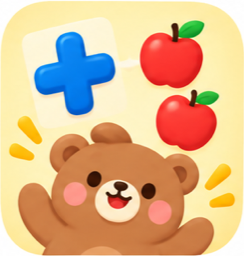
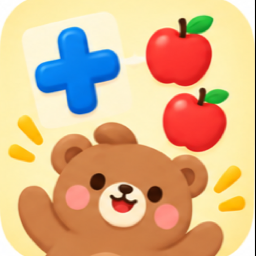
fix(ui): 활동 그림 열 개를 모두 같은 정사각형으로 맞춘다
원본 그림의 가로세로 비율이 제각각이었다 — 첫 줄 여섯 개는 세로로 길고
(238×331) 둘째 줄 셋은 정사각형에 가까웠다(280~315×318). 그대로 넣으니
카드마다 그림 크기가 달라 보였다.

각 그림에서 가운데 정사각형을 잘라 256×256 으로 맞췄다. 세로로 긴 그림은
위아래를 14% 씩 덜어내는데, 인물의 얼굴은 가운데에 있어 잘리지 않는다.

파일 크기가 다시 어긋나면 걸리도록 PNG 머리말을 직접 읽어 확인하는 테스트를 뒀다.

Claude-Session: https://claude.ai/code/session_014fMnw2XDCC8bcCaR6jEaRq

diff --git a/apps/web/src/components/ActivityIcon.test.tsx b/apps/web/src/components/ActivityIcon.test.tsx
@@ -1,6 +1,7 @@
+import { readFileSync } from 'node:fs';
 import { render, screen } from '@testing-library/react';
 import { describe, expect, it } from 'vitest';
-import { ACTIVITY_ICONS, ActivityIcon } from './ActivityIcon';
+import { ACTIVITY_ART, ACTIVITY_ICONS, ActivityIcon } from './ActivityIcon';
 
 /** 지금 앱에 있는 활동 전부. 하나라도 그림이 없으면 카드가 밋밋해진다. */
 /** 영숙님이 그려 준 그림을 쓰는 활동 — 이것들은 <svg> 가 아니라 <img> 로 그려진다. */
@@ -63,6 +64,17 @@ describe('ActivityIcon', () => {
       const { container, unmount } = render(<Icon />);
       expect(container.querySelector('svg')).toHaveAttribute('viewBox', '0 0 64 64');
       unmount();
+    }
+  });
+
+  it('모든 그림이 똑같은 정사각형이다', () => {
+    // 원본 그림들의 가로세로 비율이 제각각이라 카드마다 크기가 달라 보였다.
+    // 파일 자체를 같은 정사각형으로 맞춰 두고, 어긋나면 여기서 걸리게 한다.
+    for (const id of ART_IDS) {
+      const file = ACTIVITY_ART[id]!.replace(/^\//, '');
+      const png = readFileSync(`public/${file}`);
+      // PNG 는 IHDR 청크의 16번째 바이트부터 가로·세로를 4바이트씩 담는다.
+      expect([png.readUInt32BE(16), png.readUInt32BE(20)]).toEqual([256, 256]);
     }
   });
 

diff --git a/apps/web/src/components/ActivityIcon.tsx b/apps/web/src/components/ActivityIcon.tsx
@@ -221,8 +221,11 @@ function DefaultIcon() {
  * 카드의 제목은 앱이 글씨로 얹는다.
  *
  * 아래 SVG 는 그림이 아직 없는 활동을 위해 남겨 둔다.
+ *
+ * 모든 그림 파일은 256×256 정사각형으로 맞춰 두었다. 원본은 세로로 긴 것과
+ * 정사각형에 가까운 것이 섞여 있어, 그대로 쓰면 카드마다 그림 크기가 달라 보인다.
  */
-const ACTIVITY_ART: Record<string, string> = {
+export const ACTIVITY_ART: Record<string, string> = {
   letter_cards: '/activity-art/letter_cards.png',
   word_cards: '/activity-art/word_cards.png',
   reading_cards: '/activity-art/reading_cards.png',
